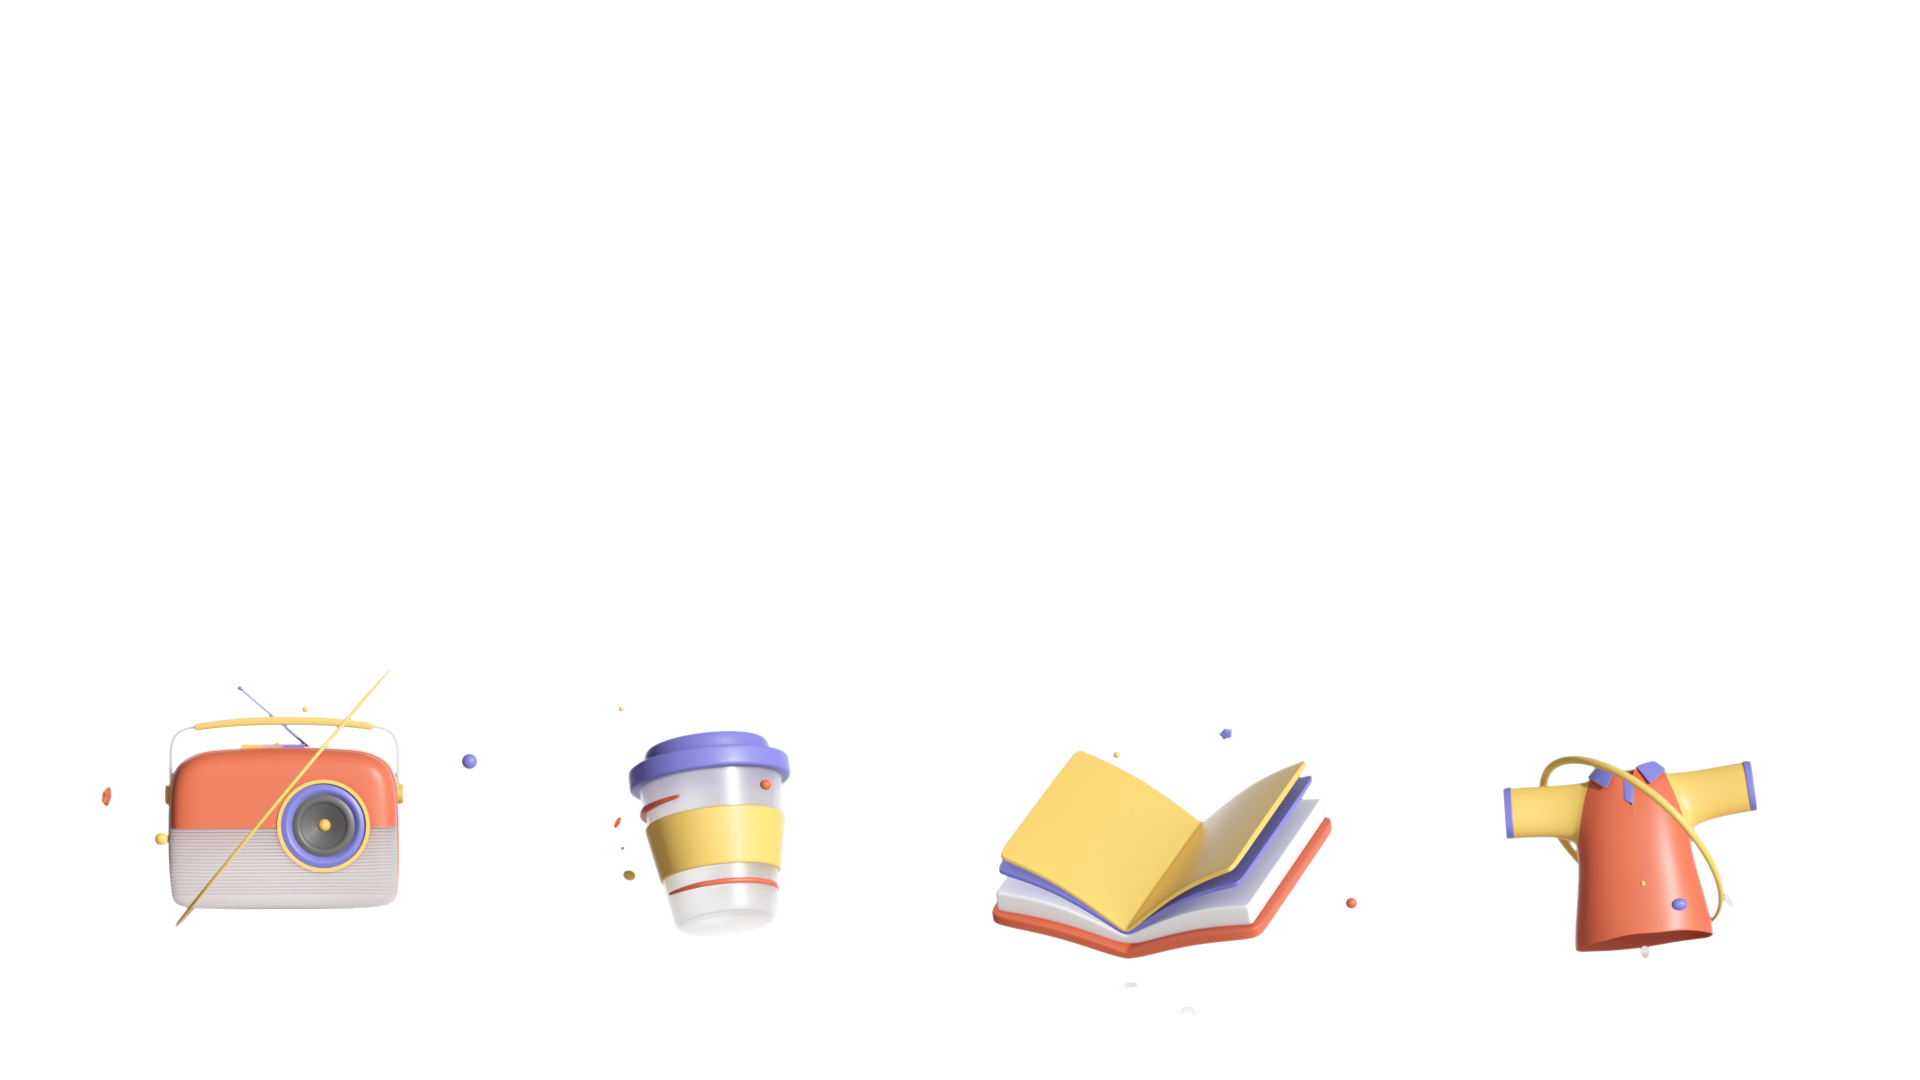
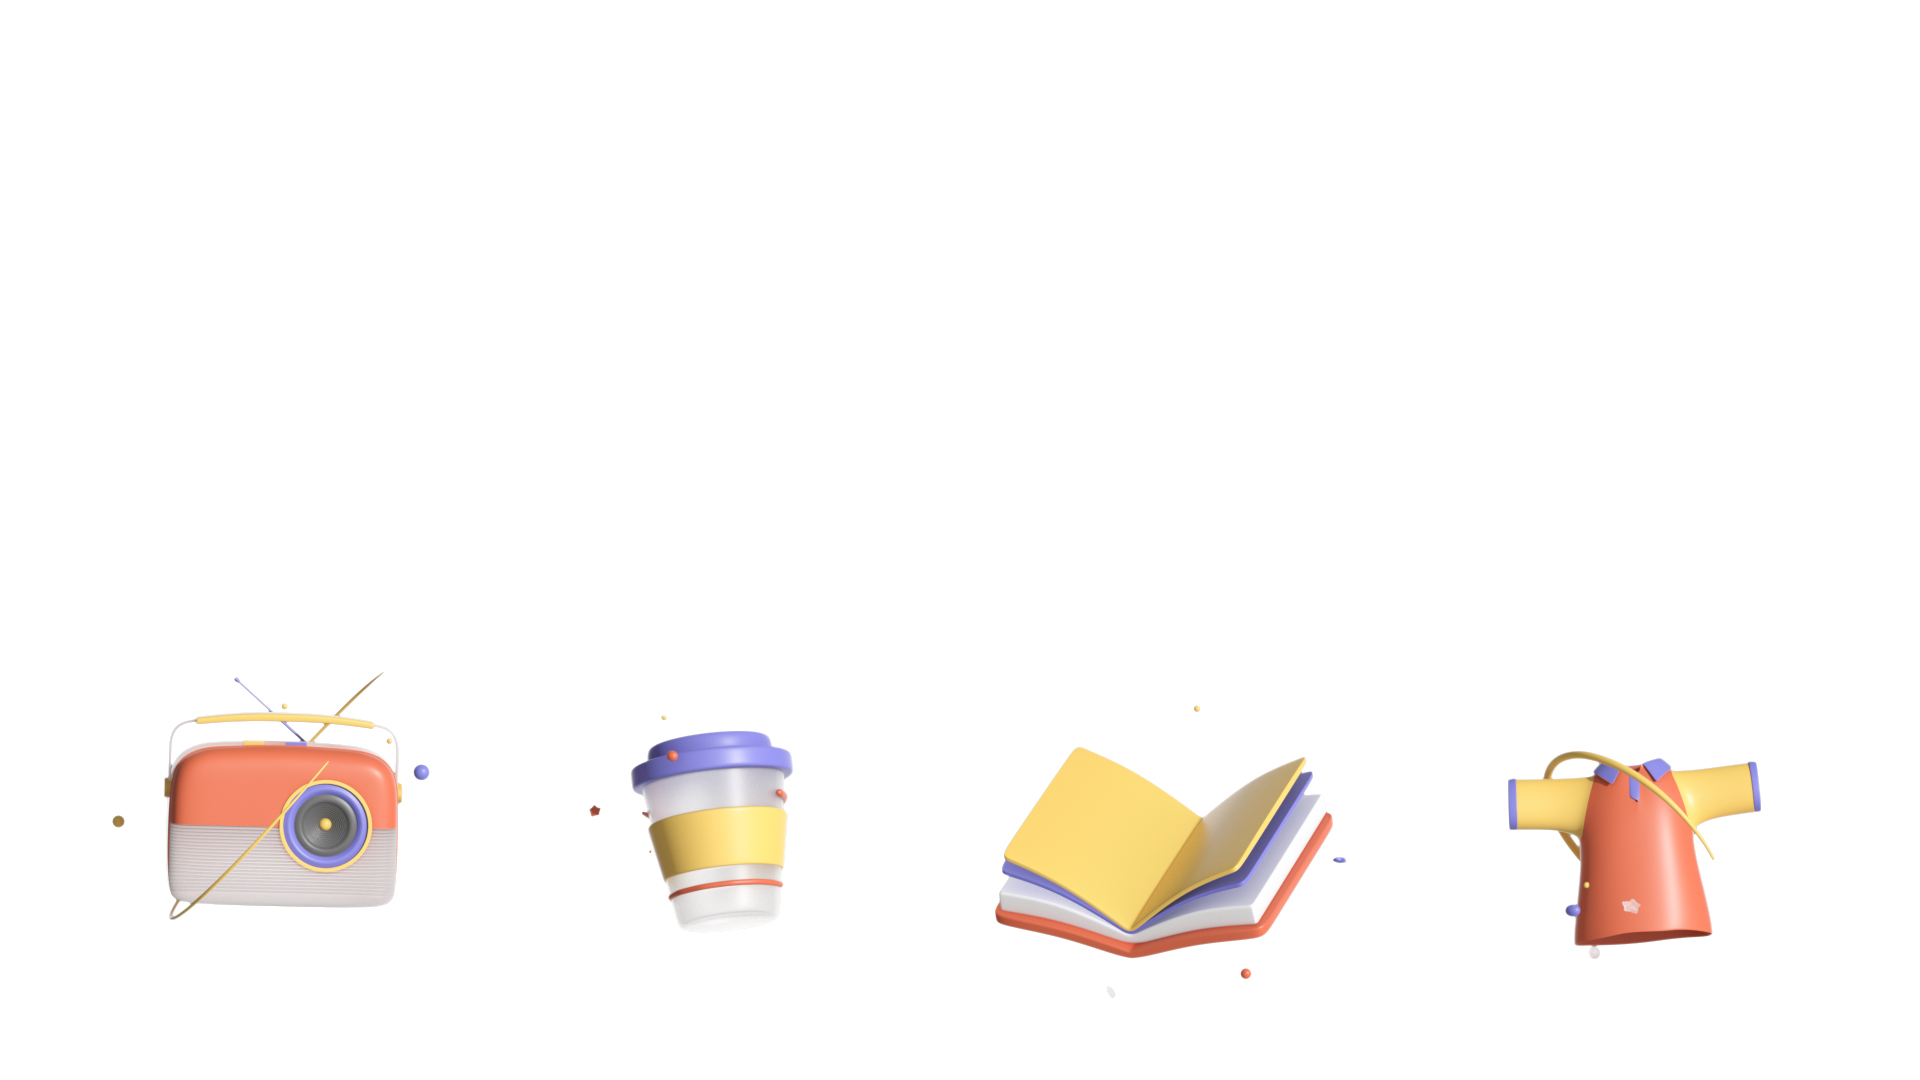
new animation

diff --git a/src/pages/Home/components/Animation.tsx b/src/pages/Home/components/Animation.tsx
@@ -7,9 +7,9 @@ gsap.registerPlugin(ScrollTrigger);
 
 const scrollingAnimationFrameCount = 79;
 const scrollingAnimationOffset = 1920;
-const staticAnimationFrameCount = 30;
+const staticAnimationFrameCount = 120;
 const currentStaticAnimationFrame = (index: number) => (
-    `/animation1_imgs/1_000${index < 10 ? `0${index}` : index}.jpg`
+    `/animation1_imgs/1_00${index < 10 ? `00${index}` : (index < 100 ? `0${index}` : index)}.jpg`
 );
 const currentScrollingAnimationFrame = (index: number) => (
     `/animation2_imgs/1_000${index < 10 ? `0${index}` : index}.jpg`
@@ -85,7 +85,7 @@ function Animation() {
             frame: staticAnimationFrameCount - 1,
             snap: "frame",
             ease: "none",
-            duration: 1,
+            duration: 4,
             onUpdate: render,
             repeat: -1,
         });

diff --git a/src/pages/Home/Home.scss b/src/pages/Home/Home.scss
@@ -1,5 +1,5 @@
 .animationWrapper {
-    margin-top: -400px;
+    margin-top: -420px;
 }
 #static_animation {
     width: 1920px;
@@ -11,7 +11,7 @@
 
 #scrolling_animation {
     width: 1920px;
-    margin-top: -80px;
+    height: 960px;
     background-image: url(/resources/animation2_imgs/pictures.png);
     background-size: auto;
     background-repeat: no-repeat;

diff --git a/src/pages/Home/components/BusinessScope/index.scss b/src/pages/Home/components/BusinessScope/index.scss
@@ -10,3 +10,11 @@
         }
     }
 }
+
+.title {
+    width: 286px;
+    height: 105px;
+    img {
+        width: 100%;
+    }
+}
